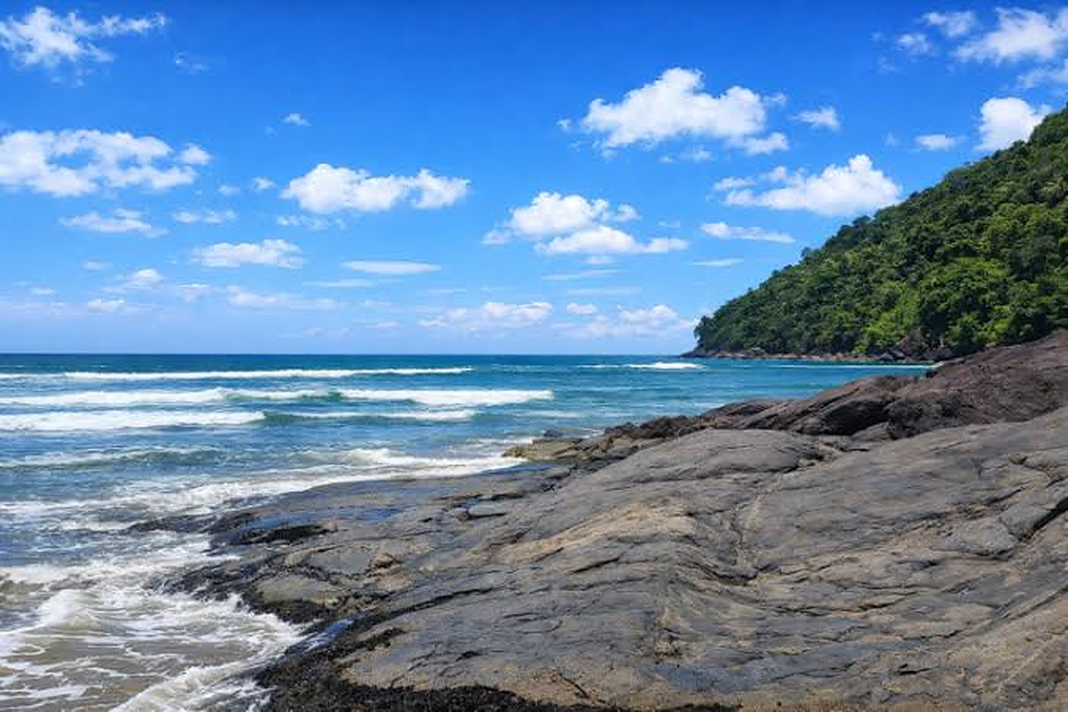
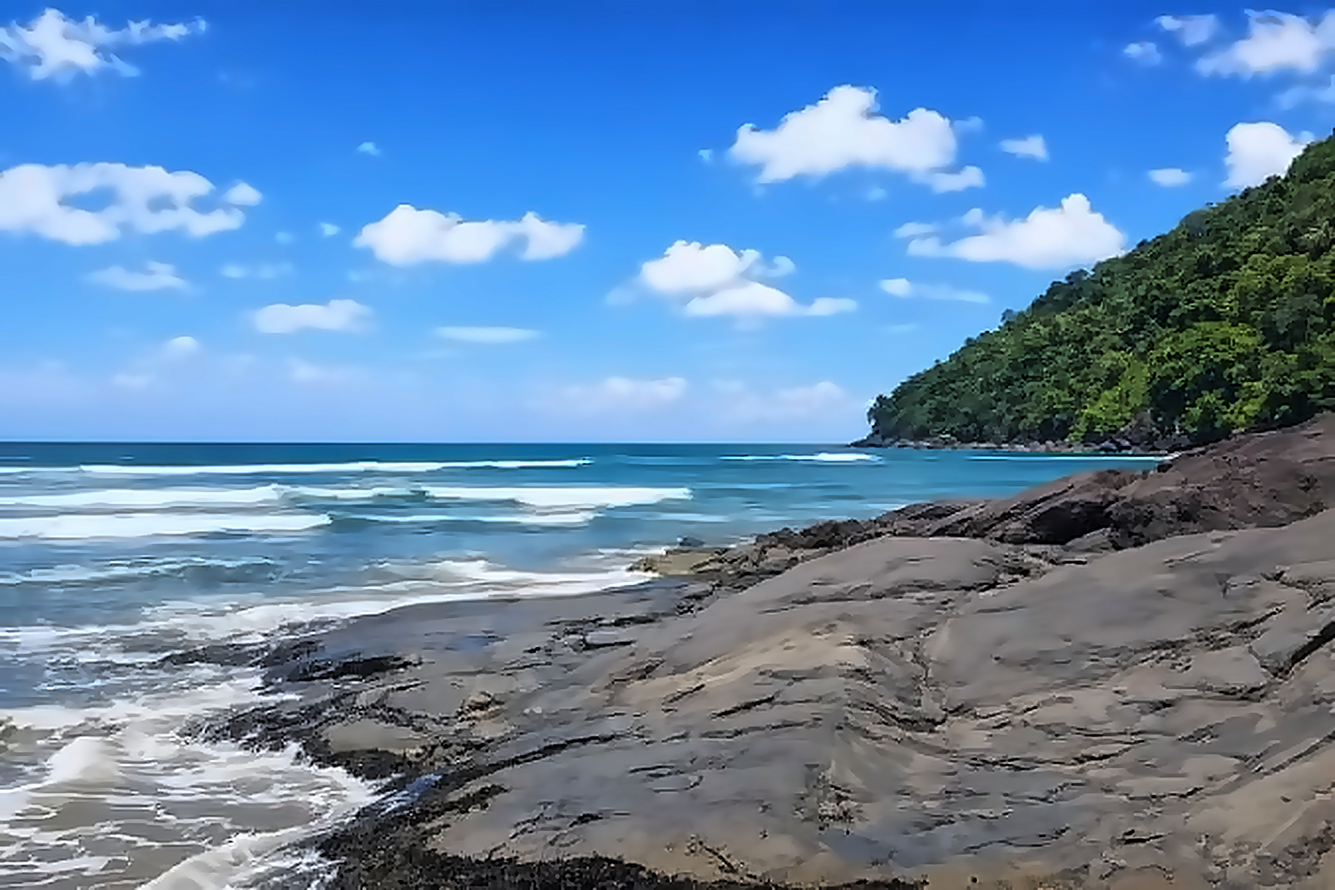
perf(img): aplica fonte 4K nativa do Rio do Guarau (4000x2250) + super-resolution 4K na Ilha do Guarau e Praia do Arpoador

diff --git a/index.html b/index.html
@@ -523,9 +523,9 @@
     <section class="hero" id="topo">
       <div class="hero-media">
         <picture>
-          <source media="(max-width: 759px)" srcset="img/ilha-guarau-mobile.webp" type="image/webp">
-          <source media="(min-width: 760px)" srcset="img/ilha-guarau-hero.webp" type="image/webp">
-          <img src="img/ilha-guarau-hero.jpg" alt="Piscina natural de águas cristalinas na Ilha do Guaraú, em Peruíbe SP" width="3840" height="2160" fetchpriority="high" decoding="async" id="heroImg">
+          <source media="(max-width: 759px)" srcset="img/ilha-guarau-hero.webp?v=4k" type="image/webp">
+          <source media="(min-width: 760px)" srcset="img/ilha-guarau-hero.webp?v=4k" type="image/webp">
+          <img src="img/ilha-guarau-hero.jpg?v=4k" alt="Piscina natural de águas cristalinas na Ilha do Guaraú, em Peruíbe SP" width="3840" height="2160" fetchpriority="high" decoding="async" id="heroImg">
         </picture>
       </div>
       <svg class="bussola" viewBox="0 0 100 100" aria-hidden="true">
@@ -581,8 +581,8 @@
             <span class="stop-num">01</span>
             <div class="ph reveal-ph">
               <div class="pi"><picture>
-                <source srcset="img/barco-gtrip-rio-1080.webp 1080w, img/barco-gtrip-rio.webp 2560w" sizes="(min-width: 760px) 60vw, 100vw" type="image/webp">
-                <img src="img/barco-gtrip-rio.jpg" alt="Barco da G-TRIP Adventure na margem do Rio Guaraú, em Peruíbe" width="2560" height="1600" loading="lazy" decoding="async" data-par data-lightbox>
+                <source srcset="img/barco-gtrip-rio.webp?v=4k 2560w, img/barco-gtrip-rio-1080.webp?v=4k 3840w" sizes="100vw" type="image/webp">
+                <img src="img/barco-gtrip-rio.jpg?v=4k" alt="Barco da G-TRIP Adventure na margem do Rio Guaraú, em Peruíbe" width="3840" height="2160" loading="lazy" decoding="async" data-par data-lightbox>
               </picture></div>
             </div>
             <div class="stop-info reveal">
@@ -596,8 +596,8 @@
             <span class="stop-num">02</span>
             <div class="ph reveal-ph">
               <div class="pi"><picture>
-                <source srcset="img/piscina-natural-1080.webp 1080w, img/piscina-natural.webp 1620w" sizes="(min-width: 760px) 60vw, 100vw" type="image/webp">
-                <img src="img/piscina-natural.jpg" alt="Piscina natural entre as rochas da Ilha do Guaraú, em Peruíbe SP" width="1620" height="2160" loading="lazy" decoding="async" data-par data-lightbox>
+                <source srcset="img/piscina-natural.webp?v=4k 2400w, img/piscina-natural-1080.webp?v=4k 2880w" sizes="100vw" type="image/webp">
+                <img src="img/piscina-natural.jpg?v=4k" alt="Piscina natural entre as rochas da Ilha do Guaraú, em Peruíbe SP" width="2880" height="1639" loading="lazy" decoding="async" data-par data-lightbox>
               </picture></div>
             </div>
             <div class="stop-info reveal">
@@ -611,8 +611,8 @@
             <span class="stop-num">03</span>
             <div class="ph reveal-ph">
               <div class="pi"><picture>
-                <source srcset="img/arpoador-cachoeira-1080.webp 1080w, img/arpoador-cachoeira.webp 1920w" sizes="(min-width: 760px) 60vw, 100vw" type="image/webp">
-                <img src="img/arpoador-cachoeira.jpg" alt="Cachoeira que deságua na areia da Praia do Arpoador, em Peruíbe SP" width="1920" height="1071" loading="lazy" decoding="async" data-par data-lightbox>
+                <source srcset="img/arpoador-cachoeira.webp?v=4k 2400w, img/arpoador-cachoeira-1080.webp?v=4k 2712w" sizes="100vw" type="image/webp">
+                <img src="img/arpoador-cachoeira.jpg?v=4k" alt="Cachoeira que deságua na areia da Praia do Arpoador, em Peruíbe SP" width="2712" height="1808" loading="lazy" decoding="async" data-par data-lightbox>
               </picture></div>
             </div>
             <div class="stop-info reveal">
@@ -642,8 +642,8 @@
           </figure>
           <figure class="reveal" style="--d:120ms">
             <div class="ph reveal-ph"><div class="pi"><picture>
-              <source srcset="img/ilha-guarau-1080.webp 1080w, img/ilha-guarau-2400.webp 2400w" sizes="(min-width: 760px) 60vw, 100vw" type="image/webp">
-              <img src="img/ilha-guarau-hero.jpg" alt="Vista aérea da Ilha do Guaraú, em Peruíbe SP" width="3840" height="2160" loading="lazy" decoding="async" data-par data-lightbox>
+              <source srcset="img/ilha-guarau-2400.webp?v=4k 2880w" sizes="100vw" type="image/webp">
+              <img src="img/ilha-guarau-hero.jpg?v=4k" alt="Vista aérea da Ilha do Guaraú, em Peruíbe SP" width="2880" height="1639" loading="lazy" decoding="async" data-par data-lightbox>
             </picture></div></div>
             <figcaption>A ilha vista do alto</figcaption>
           </figure>
